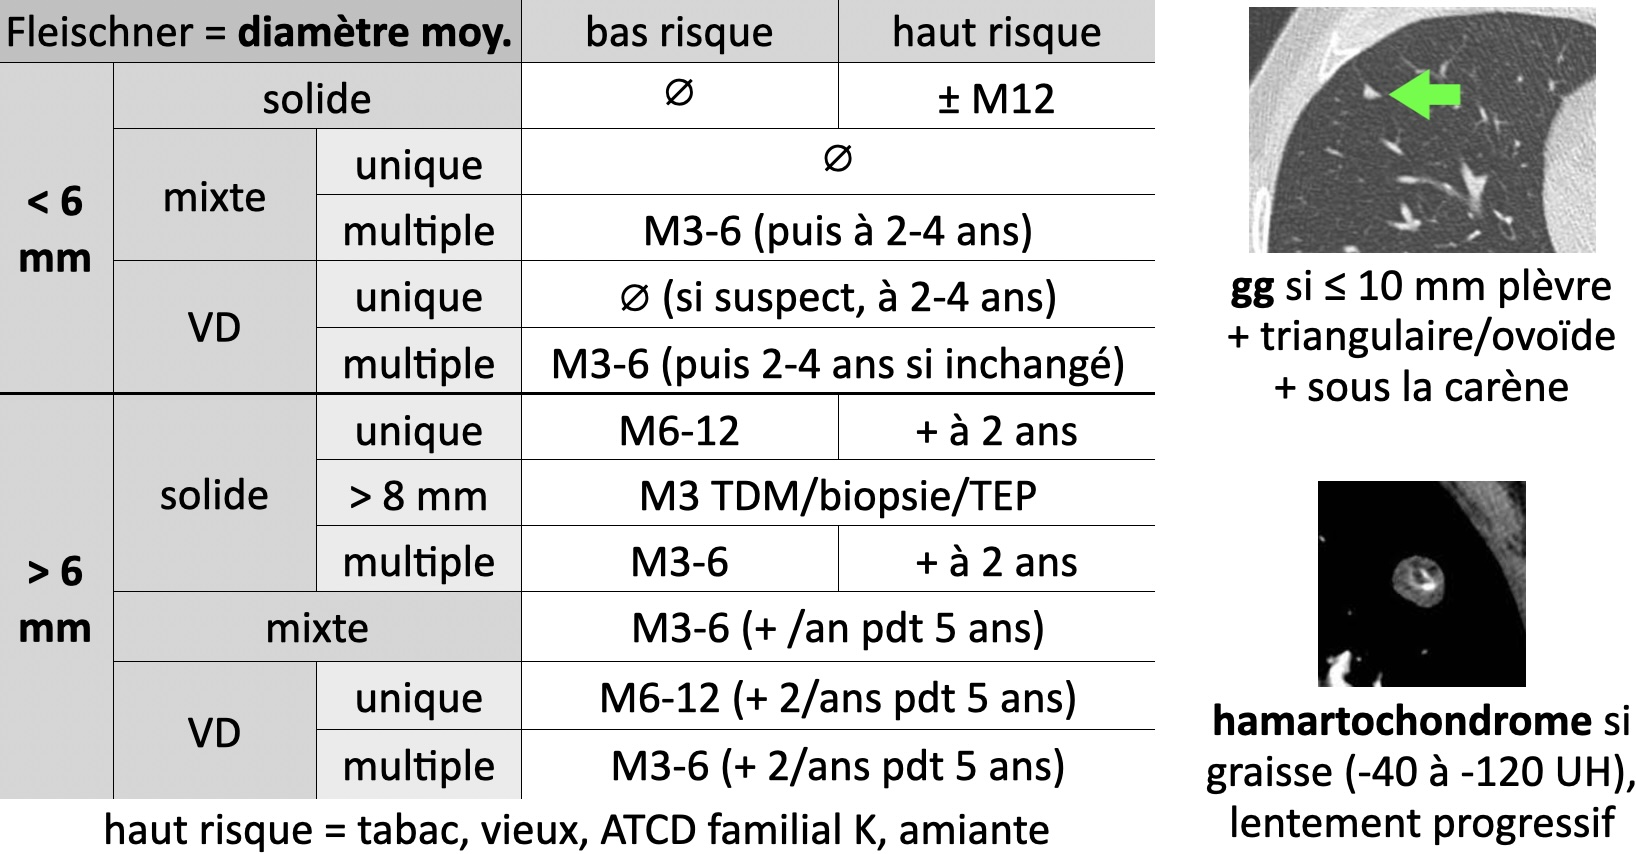
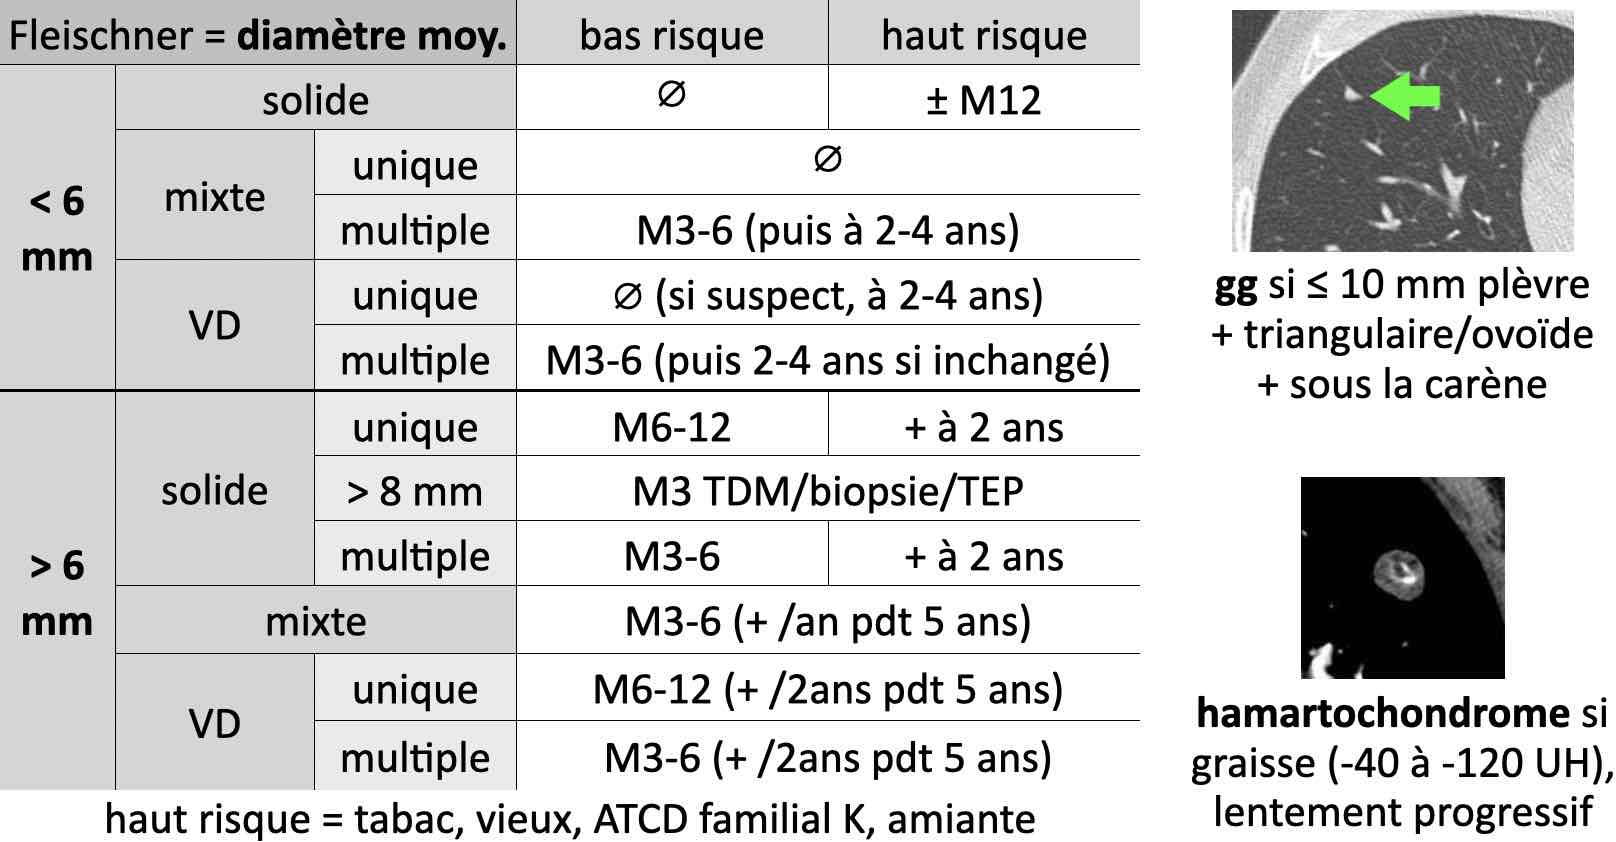
divisum

diff --git a/docs/urg/PDC.md b/docs/urg/PDC.md
@@ -2,12 +2,12 @@
 
 !!! danger "[Réactions d'hypersensibilité](https://www.radiologie.fr/sites/www.radiologie.fr/files/medias/documents/CIRTACI%20Fiche%20Allergie%2029%2009%202009_0.pdf){:target="_blank"} = 10✝/an en France"
     - immédiate = urticaire/angiœdème/anaphylaxie = ↗ histamine et tryptase
-    - non allergique = érythème/urticaire localisé = prévenu par anti-H1  
-    ![](assets/hypersensibilite.jpg){width=480"}
-
+    - non allergique = érythème/urticaire localisé = prémédication anti-H1 1h avt
+    ![](assets/hypersensibilite.jpg){width=480"}  
+    
     | grade | symptômes  |  PEC | 
     | :----------: | :-------: | :----------: | 
-    | I | érythème, urticaire, angiœdème| polaramine | 
+    | I | érythème, urticaire, angiœdème | polaramine + surveillance 30' | 
     | II | hypoTA, tachy<3, dyspnée, nausées | remplissage NaCl |
     | III | choc anaphylactique | adré IM 0.5 mg, O<sup>2</sup>, ventoline | 
 

diff --git a/docs/thorax/nodules.md b/docs/thorax/nodules.md
@@ -7,8 +7,8 @@
 </br> 
 
 <figure markdown="span">
-    ![](assets/fleischner.jpg){width="670"}
-    </br>[CAT nodule pulmonaire](https://cerf.radiologie.fr/sites/cerf.radiologie.fr/files/Enseignement/DES/Archives-Documents/02%20ML%20CAT%20d%C3%A9couverte%20fortuite%20nodule%20pulmonaire.pdf){:target="_blank"}
+    [![](assets/fleischner.jpg){width="670"}](https://www.mdcalc.com/calc/10062/fleischner-society-guidelines-incidental-pulmonary-nodules){:target="_blank"}  
+    [CAT nodule pulmonaire](https://cerf.radiologie.fr/sites/cerf.radiologie.fr/files/Enseignement/DES/Archives-Documents/02%20ML%20CAT%20d%C3%A9couverte%20fortuite%20nodule%20pulmonaire.pdf){:target="_blank"}
 </figure>
 
 !!! tip "Causes de **nodules troués**"

diff --git a/docs/dig/pancreas.md b/docs/dig/pancreas.md
@@ -134,3 +134,11 @@
         </br>
         **VHL** = kystes vrais, cystadénomes séreux, et TNE
     </figure> 
+
+
+=== "DIVISUM"
+    <figure markdown="span">
+        CPP s'abouche dans la papille mineure = **5%** = + de PA
+        ![](assets/divisum.jpg){width="800"} 
+    </figure> 
+
